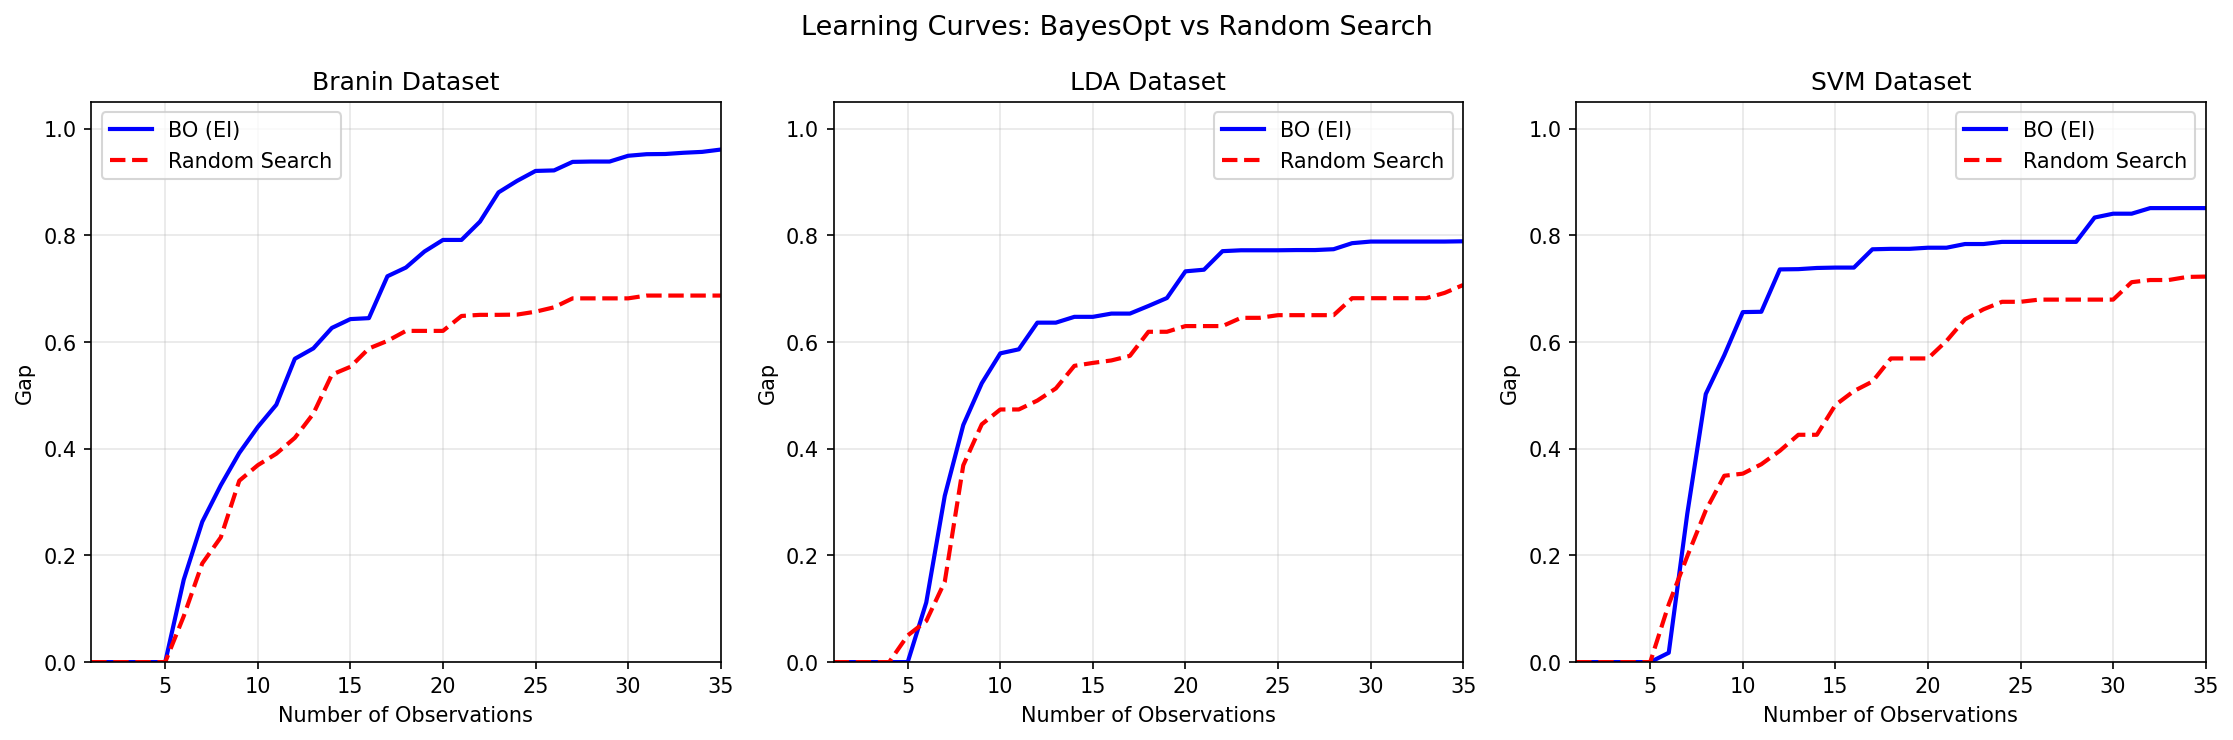
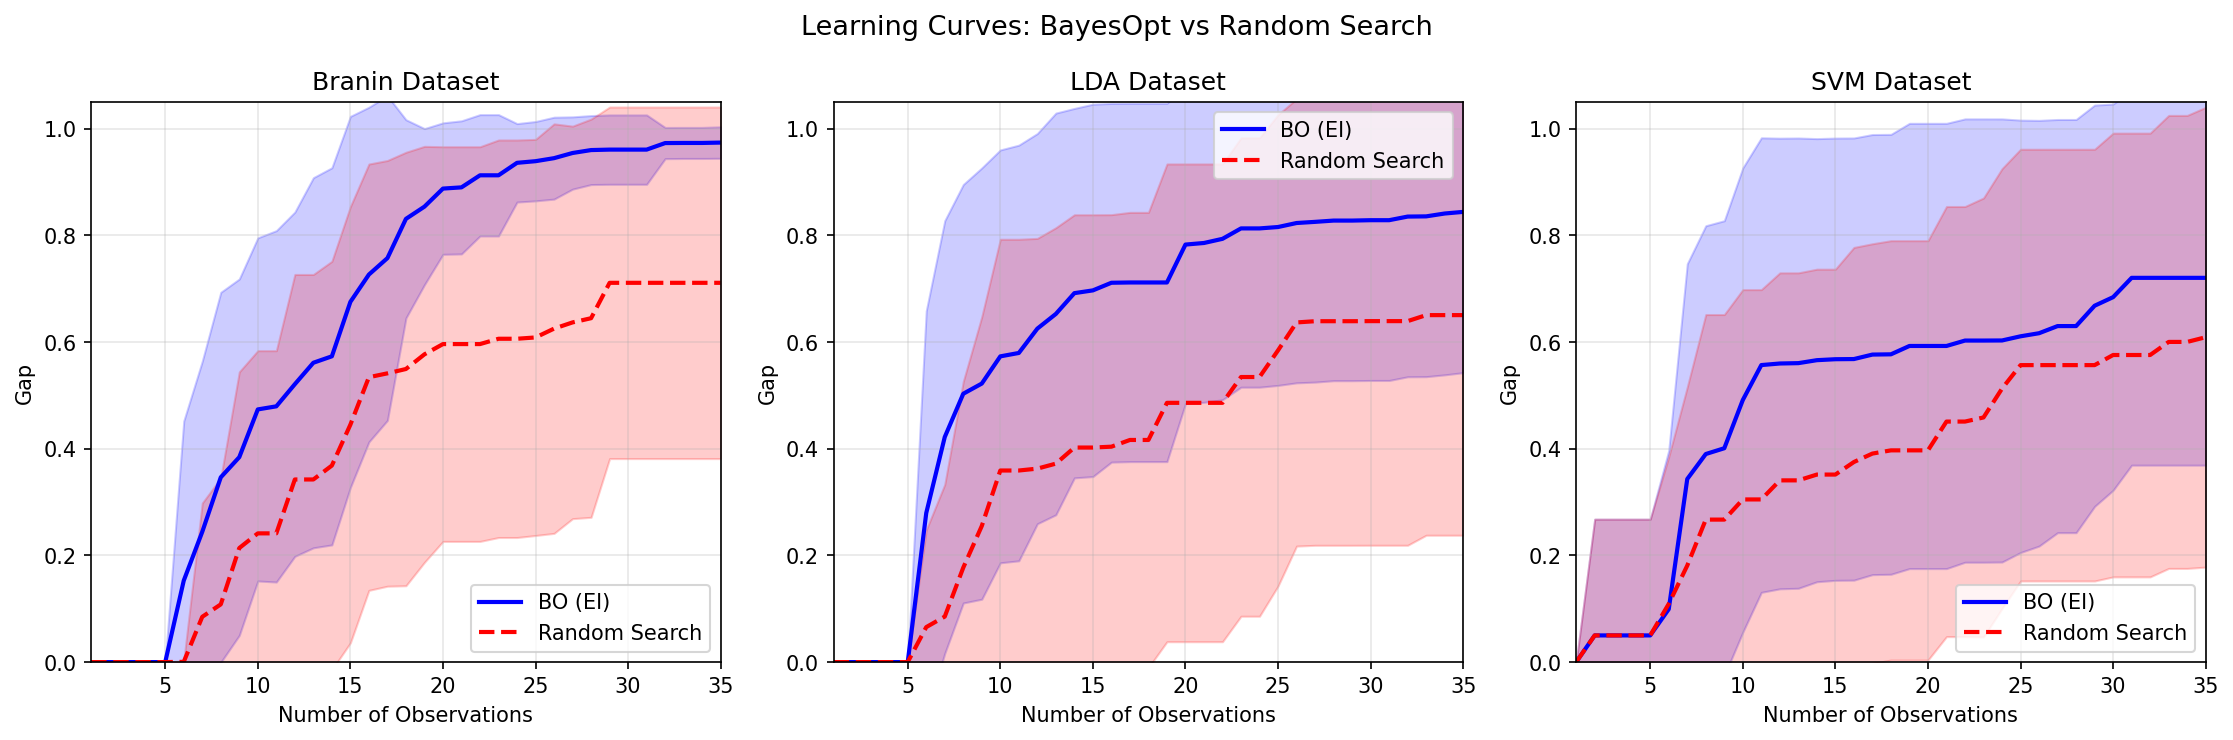
finshed bayes opt changes

diff --git a/bayesian_optimization/bayesian_optimization.py b/bayesian_optimization/bayesian_optimization.py
@@ -110,7 +110,7 @@ def compute_gap(f_best_found, f_best_initial, f_optimum):
     return np.clip(gap, 0, 1)
 
 
-def bayesian_optimization(X_pool, y_pool, kernel, n_initial=5, n_iterations=30, 
+def bayesian_optimization(X_pool, y_pool, kernel, run_num, n_initial=5, n_iterations=30, 
                           use_log_transform=False, verbose=False):
     """
     Run Bayesian optimization experiment.
@@ -144,7 +144,7 @@ def bayesian_optimization(X_pool, y_pool, kernel, n_initial=5, n_iterations=30,
     best_so_far = []
     
     # Random initialization
-    rng = np.random.default_rng()
+    rng = np.random.default_rng(run_num*42)
     init_indices = rng.choice(n_pool, size=n_initial, replace=False)
     
     for idx in init_indices:
@@ -201,7 +201,7 @@ def bayesian_optimization(X_pool, y_pool, kernel, n_initial=5, n_iterations=30,
     }
 
 
-def random_search(X_pool, y_pool, n_initial=5, n_iterations=30, verbose=False):
+def random_search(X_pool, y_pool, run_num, n_initial=5, n_iterations=30, verbose=False):
     """Run random search experiment."""
     n_pool = len(X_pool)
     available = np.ones(n_pool, dtype=bool)
@@ -210,7 +210,7 @@ def random_search(X_pool, y_pool, n_initial=5, n_iterations=30, verbose=False):
     y_values = []
     best_so_far = []
     
-    rng = np.random.default_rng()
+    rng = np.random.default_rng(run_num*42)
     init_indices = rng.choice(n_pool, size=n_initial, replace=False)
     
     for idx in init_indices:
@@ -366,9 +366,11 @@ def run_experiments(n_runs=20, save_dir=None):
         print(f"Pool size: {len(X_pool)}, Optimum: {f_opt:.6f}")
         
         bo_results = []
+        bo_results30 = []
         rs_results = []
         if name.lower() == 'svm' or name.lower() == 'lda':
             kernel = ConstantKernel(1.0) * RationalQuadratic(length_scale=1.0, alpha=1.0)
+            # kernel = ConstantKernel(1.0) * Matern(length_scale=[1.0]*3, nu=2.5)
         else:
             kernel = ConstantKernel(1.0) * Matern(length_scale=[1.0]*2, nu=2.5)
         
@@ -376,18 +378,24 @@ def run_experiments(n_runs=20, save_dir=None):
             np.random.seed(run * 42)  # Different seed for each run
             
             # Bayesian optimization (5 initial + 30 iterations = 35 total)
+            bo_history_30 = bayesian_optimization(
+                X_pool, y_pool, kernel, run, n_initial=5, n_iterations=25, 
+                use_log_transform=use_log, verbose=False
+            )
+
             bo_history = bayesian_optimization(
-                X_pool, y_pool, kernel, n_initial=5, n_iterations=30, 
+                X_pool, y_pool, kernel, run, n_initial=5, n_iterations=30, 
                 use_log_transform=use_log, verbose=False
             )
             
             # Random search (5 initial + 145 more = 150 total)
             np.random.seed(run * 42)  # Same initialization
             rs_history = random_search(
-                X_pool, y_pool, n_initial=5, n_iterations=145, verbose=False
+                X_pool, y_pool, run, n_initial=5, n_iterations=145, verbose=False
             )
             
             bo_results.append(bo_history)
+            bo_results30.append(bo_history_30)
             rs_results.append(rs_history)
             
             if (run + 1) % 5 == 0:
@@ -395,6 +403,7 @@ def run_experiments(n_runs=20, save_dir=None):
         
         results[name] = {
             'bo': bo_results,
+            'bo30': bo_results30,
             'rs': rs_results,
             'f_opt': f_opt
         }
@@ -437,16 +446,16 @@ def plot_learning_curves(results, save_dir):
         x_rs = np.arange(1, n_obs_rs + 1)
         
         ax.plot(x_bo, bo_gaps.mean(axis=0), 'b-', linewidth=2, label='BO (EI)')
-        # ax.fill_between(x_bo, 
-        #                 bo_gaps.mean(axis=0) - bo_gaps.std(axis=0),
-        #                 bo_gaps.mean(axis=0) + bo_gaps.std(axis=0),
-        #                 alpha=0.2, color='b')
+        ax.fill_between(x_bo, 
+                        bo_gaps.mean(axis=0) - bo_gaps.std(axis=0),
+                        bo_gaps.mean(axis=0) + bo_gaps.std(axis=0),
+                        alpha=0.2, color='b')
         
         ax.plot(x_rs, rs_gaps.mean(axis=0), 'r--', linewidth=2, label='Random Search')
-        # ax.fill_between(x_rs,
-        #                 rs_gaps.mean(axis=0) - rs_gaps.std(axis=0),
-        #                 rs_gaps.mean(axis=0) + rs_gaps.std(axis=0),
-        #                 alpha=0.2, color='r')
+        ax.fill_between(x_rs,
+                        rs_gaps.mean(axis=0) - rs_gaps.std(axis=0),
+                        rs_gaps.mean(axis=0) + rs_gaps.std(axis=0),
+                        alpha=0.2, color='r')
         
         ax.set_xlabel('Number of Observations')
         ax.set_ylabel('Gap')
@@ -487,6 +496,16 @@ def compute_statistics(results, save_dir):
             bo_final_gaps.append(gap)
         
         bo_final_gaps = np.array(bo_final_gaps)
+
+        # Final gaps for BO (at 30 observations)
+        bo30_final_gaps = []
+        for run in data['bo30']:
+            f_best_initial = run['best_so_far'][4]
+            f_best_found = run['best_so_far'][-1]
+            gap = compute_gap(f_best_found, f_best_initial, f_opt)
+            bo30_final_gaps.append(gap)
+        
+        bo30_final_gaps = np.array(bo30_final_gaps)
         
         # Gaps for RS at different observation counts
         rs_gaps_at = {}
@@ -503,7 +522,8 @@ def compute_statistics(results, save_dir):
         # Print results
         print(f"\nMean Gap (+/- std):")
         print(f"  BayesOpt (35 obs):          {bo_final_gaps.mean():.4f} +/- {bo_final_gaps.std():.4f}")
-        
+        print(f"  BayesOpt (30 obs):          {bo30_final_gaps.mean():.4f} +/- {bo30_final_gaps.std():.4f}")
+
         for n_obs in [30, 60, 90, 120, 150]:
             gaps = rs_gaps_at[n_obs]
             print(f"  RS ({n_obs:3d} obs):        {gaps.mean():.4f} +/- {gaps.std():.4f}")
@@ -517,14 +537,14 @@ def compute_statistics(results, save_dir):
                 t_stat, p_value = stats.ttest_rel(bo_final_gaps, rs_gaps_at[n_obs])
                 print(f"  RS@{n_obs:3d}: t={t_stat:7.3f}, p={p_value:.4f}", end="")
                 if p_value < 0.05:
-                    print(" *")
+                    print(" (significant)")
                 else:
                     print("")
                     if speedup is None:
                         speedup = n_obs
         
         if speedup:
-            print(f"\n  Speedup: BayesOpt needs ~35 obs to match RS at ~{speedup} obs")
+            print(f"\n  Speedup: BayesOpt needs ~30 obs to match RS at ~{speedup} obs")
             print(f"  -> BayesOpt is ~{speedup/30:.1f}x faster than random search")
         
         stats_results[name] = {
